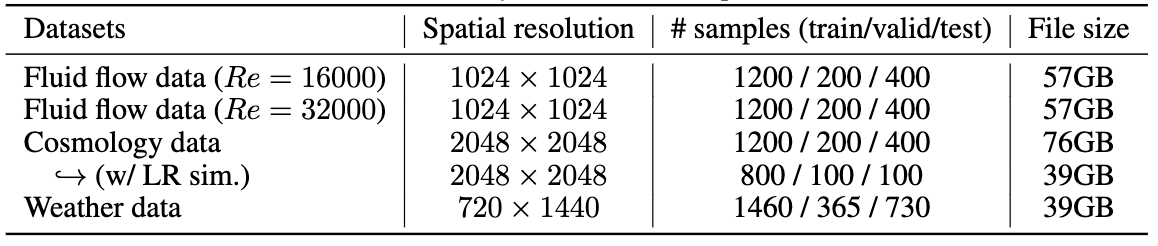
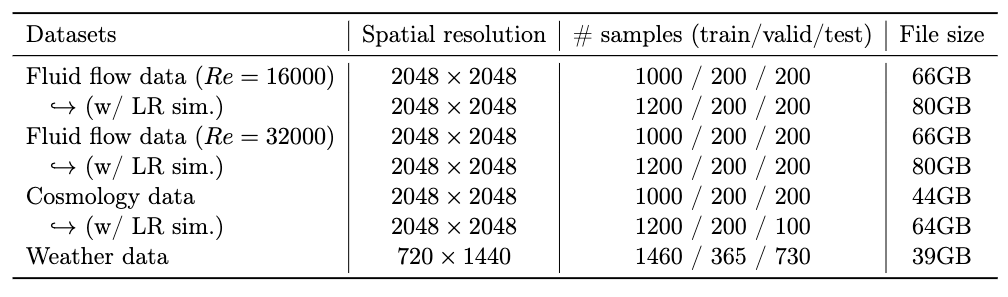
update README

Changed region(s): [[0.0, 0.0, 1.0, 0.9675]]

diff --git a/README.md b/README.md
@@ -31,7 +31,7 @@ SuperBench is a benchmark dataset and evaluation framework for super-resolution 
 ## Datasets
 
 - **Navier-Stokes Kraichnan Turbulence**
-    - Two fluid flow datasets are simulated with Reynolds numbers of $Re=16000$ and $Re=32000$. The spatial resolution of this dataset is $1024\times1024$. 
+    - Two fluid flow datasets are simulated with Reynolds numbers of $Re=16000$ and $Re=32000$. The spatial resolution of this dataset is $2048\times2048$. 
     - Three variables are considered: two velocity variables in the $x$ and $y$ directions, as well as with the vorticity field.
 - **Cosmology Hydrodynamics**
     - The spatial resolution is $2048\times2048$. The temperature and baryon density are provided in log scale. 
